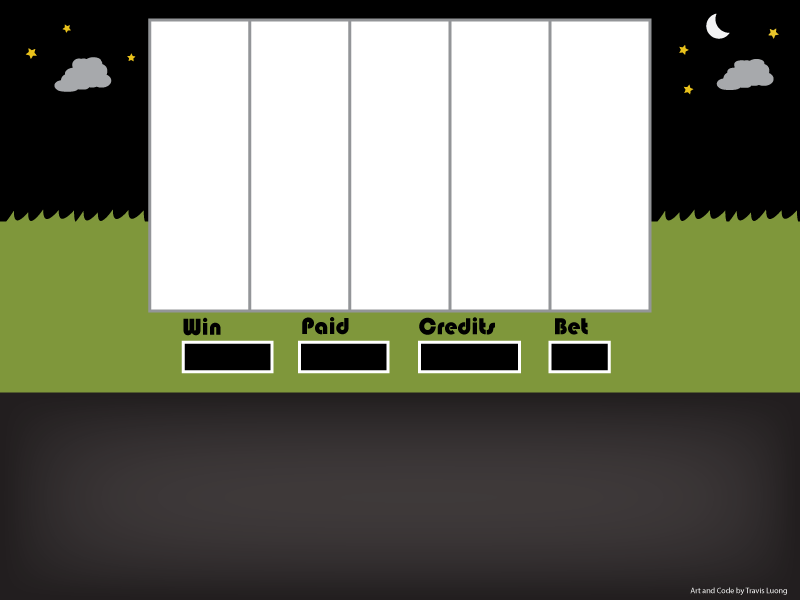
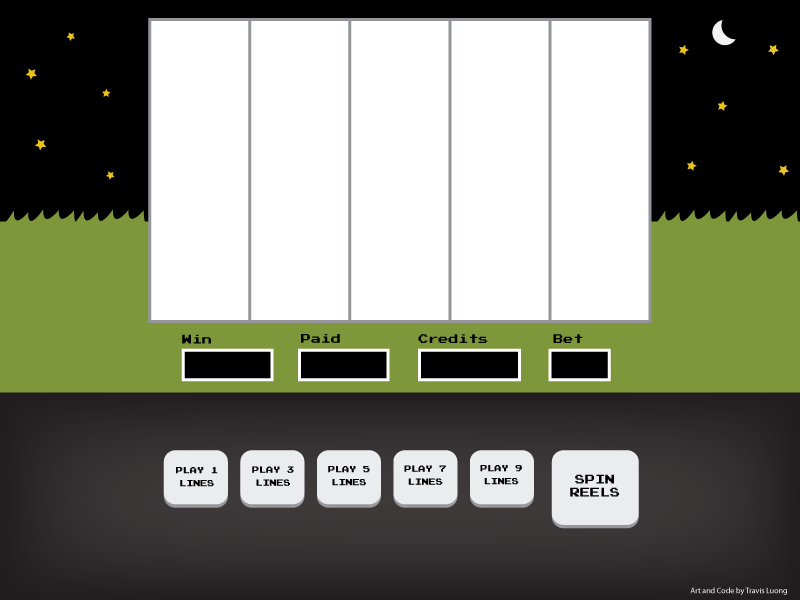
bet lines
-added ball and line images
-deleted unneeded image
-added code to show bet lines

diff --git a/index.php b/index.php
@@ -156,6 +156,133 @@ lucky_img.onload = function () {
 }
 lucky_img.src = "img/lucky.png";
 
+var ball1_img_ready = false;
+var ball1_img = new Image();
+ball1_img.onload = function () {
+	ball1_img_ready = true;
+}
+ball1_img.src = "img/ball1.png";
+
+var ball2_img_ready = false;
+var ball2_img = new Image();
+ball2_img.onload = function () {
+	ball2_img_ready = true;
+}
+ball2_img.src = "img/ball2.png";
+
+var ball3_img_ready = false;
+var ball3_img = new Image();
+ball3_img.onload = function () {
+	ball3_img_ready = true;
+}
+ball3_img.src = "img/ball3.png";
+
+var ball4_img_ready = false;
+var ball4_img = new Image();
+ball4_img.onload = function () {
+	ball4_img_ready = true;
+}
+ball4_img.src = "img/ball4.png";
+
+var ball5_img_ready = false;
+var ball5_img = new Image();
+ball5_img.onload = function () {
+	ball5_img_ready = true;
+}
+ball5_img.src = "img/ball5.png";
+
+var ball6_img_ready = false;
+var ball6_img = new Image();
+ball6_img.onload = function () {
+	ball6_img_ready = true;
+}
+ball6_img.src = "img/ball6.png";
+
+var ball7_img_ready = false;
+var ball7_img = new Image();
+ball7_img.onload = function () {
+	ball7_img_ready = true;
+}
+ball7_img.src = "img/ball7.png";
+
+var ball8_img_ready = false;
+var ball8_img = new Image();
+ball8_img.onload = function () {
+	ball8_img_ready = true;
+}
+ball8_img.src = "img/ball8.png";
+
+var ball9_img_ready = false;
+var ball9_img = new Image();
+ball9_img.onload = function () {
+	ball9_img_ready = true;
+}
+ball9_img.src = "img/ball9.png";
+
+var line1_img_ready = false;
+var line1_img = new Image();
+line1_img.onload = function () {
+	line1_img_ready = true;
+}
+line1_img.src = "img/line1.png";
+
+var line2_img_ready = false;
+var line2_img = new Image();
+line2_img.onload = function () {
+	line2_img_ready = true;
+}
+line2_img.src = "img/line2.png";
+
+var line3_img_ready = false;
+var line3_img = new Image();
+line3_img.onload = function () {
+	line3_img_ready = true;
+}
+line3_img.src = "img/line3.png";
+
+var line4_img_ready = false;
+var line4_img = new Image();
+line4_img.onload = function () {
+	line4_img_ready = true;
+}
+line4_img.src = "img/line4.png";
+
+var line5_img_ready = false;
+var line5_img = new Image();
+line5_img.onload = function () {
+	line5_img_ready = true;
+}
+line5_img.src = "img/line5.png";
+
+var line6_img_ready = false;
+var line6_img = new Image();
+line6_img.onload = function () {
+	line6_img_ready = true;
+}
+line6_img.src = "img/line6.png";
+
+var line7_img_ready = false;
+var line7_img = new Image();
+line7_img.onload = function () {
+	line7_img_ready = true;
+}
+line7_img.src = "img/line7.png";
+
+var line8_img_ready = false;
+var line8_img = new Image();
+line8_img.onload = function () {
+	line8_img_ready = true;
+}
+line8_img.src = "img/line8.png";
+
+var line9_img_ready = false;
+var line9_img = new Image();
+line9_img.onload = function () {
+	line9_img_ready = true;
+}
+line9_img.src = "img/line9.png";
+
+
 // compare line and winning sequence
 // return false if no match and true if match
 function results_sequence_match(results, winning_sequence) {
@@ -238,6 +365,7 @@ function GameState(win, paid, credits, bet, tiles, highlight_tiles, show_highlig
 	this.current_highlight_tiles_counter = 0;
 	this.rotate_highlight_loop = null;
 	this.spin_click_shield = false;
+	this.show_lines = true;
 	this.transfer_win_to_credits = function() {
 		var i = this.win;
 		var counter = 0;
@@ -252,7 +380,7 @@ function GameState(win, paid, credits, bet, tiles, highlight_tiles, show_highlig
 	}
 }
 
-var game_state = new GameState(0, 0, 50, 0, [], [], false);
+var game_state = new GameState(0, 0, 50, 0, [], [], true);
 
 game_state.tiles.push(new Tile('whitebook', tile1_img, '1'));
 game_state.tiles.push(new Tile('greenbook', tile2_img, '1'));
@@ -342,6 +470,8 @@ function BetButton(x, y, width, height, handler, bet_amount) {
         	this.y + this.height > mouse.y) {
 
 	        handler(bet_amount);
+	    	game_state.show_lines = true;
+	    	game_state.show_highlight_tiles = false;
 	        return true;
 	    }
 	}
@@ -365,6 +495,7 @@ var spin_handler = function(){
 	game_state.win = 0;
 	game_state.credits -= game_state.bet;
 	game_state.show_highlight_tiles = false;
+	game_state.show_lines = false;
 	for (var i = 0; i < reels_bottom.length; i++) {
 		reels_top = generate_reels(-1000);
 		animate_reels(i);
@@ -520,27 +651,64 @@ var render = function () {
 	// draw bg img
 	ctx.drawImage(bg_img, 0, 0, 800, 600, 0, 0, 800, 600);
 
-	// draw buttons
-	ctx.drawImage(buttons_on_img, 0, 0, 800, 241, 0, 360, 800, 241);
-
 	// draw game states
 	ctx.fillStyle = "#7F9500"
 	ctx.font = "24px Arial";
 	ctx.textAlign = "right";
 	ctx.textBaseline = "top";
-	ctx.fillText(game_state.win, 265, 345);
-	ctx.fillText(game_state.paid, 382, 345);
-	ctx.fillText(game_state.credits, 512, 345);
-	ctx.fillText(game_state.bet, 602, 345);
+	ctx.fillText(game_state.win, 265, 353);
+	ctx.fillText(game_state.paid, 382, 353);
+	ctx.fillText(game_state.credits, 512, 353);
+	ctx.fillText(game_state.bet, 602, 353);
 
 	// draw game state highlight tiles
-	if (game_state.show_highlight_tiles && game_state.highlight_tiles.length) {
+	if (game_state.show_highlight_tiles && game_state.highlight_tiles.length && !game_state.show_lines) {
 		ctx.fillStyle = "rgba(255, 0, 0, 0.5)";
 		for (var j = 0; j < 5; j++) {
 			var x_coord = LINE_MAP[game_state.current_highlight_tiles][j][0] * 100 + 150;
 			var y_coord = LINE_MAP[game_state.current_highlight_tiles][j][1] * 100 + 20;
 			ctx.fillRect(x_coord, y_coord, 100, 100);
 		};
+	}
+
+	// draw number balls
+	if (game_state.bet >= 1) {
+		ctx.drawImage(ball1_img, 0, 0, 561, 301, 117, 20, 561, 301);
+		if (game_state.show_lines) {
+			ctx.drawImage(line1_img, 0, 0, 561, 301, 117, 20, 561, 301);
+		}
+	}
+	if (game_state.bet >= 3) {
+		ctx.drawImage(ball2_img, 0, 0, 561, 301, 117, 20, 561, 301);
+		ctx.drawImage(ball3_img, 0, 0, 561, 301, 117, 20, 561, 301);
+		if (game_state.show_lines) {
+			ctx.drawImage(line2_img, 0, 0, 561, 301, 117, 20, 561, 301);
+			ctx.drawImage(line3_img, 0, 0, 561, 301, 117, 20, 561, 301);
+		}
+	}
+	if (game_state.bet >= 5) {
+		ctx.drawImage(ball4_img, 0, 0, 561, 301, 117, 20, 561, 301);
+		ctx.drawImage(ball5_img, 0, 0, 561, 301, 117, 20, 561, 301);
+		if (game_state.show_lines) {
+			ctx.drawImage(line4_img, 0, 0, 561, 301, 117, 20, 561, 301);
+			ctx.drawImage(line5_img, 0, 0, 561, 301, 117, 20, 561, 301);
+		}
+	}
+	if (game_state.bet >= 7) {
+		ctx.drawImage(ball6_img, 0, 0, 561, 301, 117, 20, 561, 301);
+		ctx.drawImage(ball7_img, 0, 0, 561, 301, 117, 20, 561, 301);
+		if (game_state.show_lines) {
+			ctx.drawImage(line6_img, 0, 0, 561, 301, 117, 20, 561, 301);
+			ctx.drawImage(line7_img, 0, 0, 561, 301, 117, 20, 561, 301);
+		}
+	}
+	if (game_state.bet >= 9) {
+		ctx.drawImage(ball8_img, 0, 0, 561, 301, 117, 20, 561, 301);
+		ctx.drawImage(ball9_img, 0, 0, 561, 301, 117, 20, 561, 301);
+		if (game_state.show_lines) {
+			ctx.drawImage(line8_img, 0, 0, 561, 301, 117, 20, 561, 301);
+			ctx.drawImage(line9_img, 0, 0, 561, 301, 117, 20, 561, 301);
+		}
 	}
 };
 
